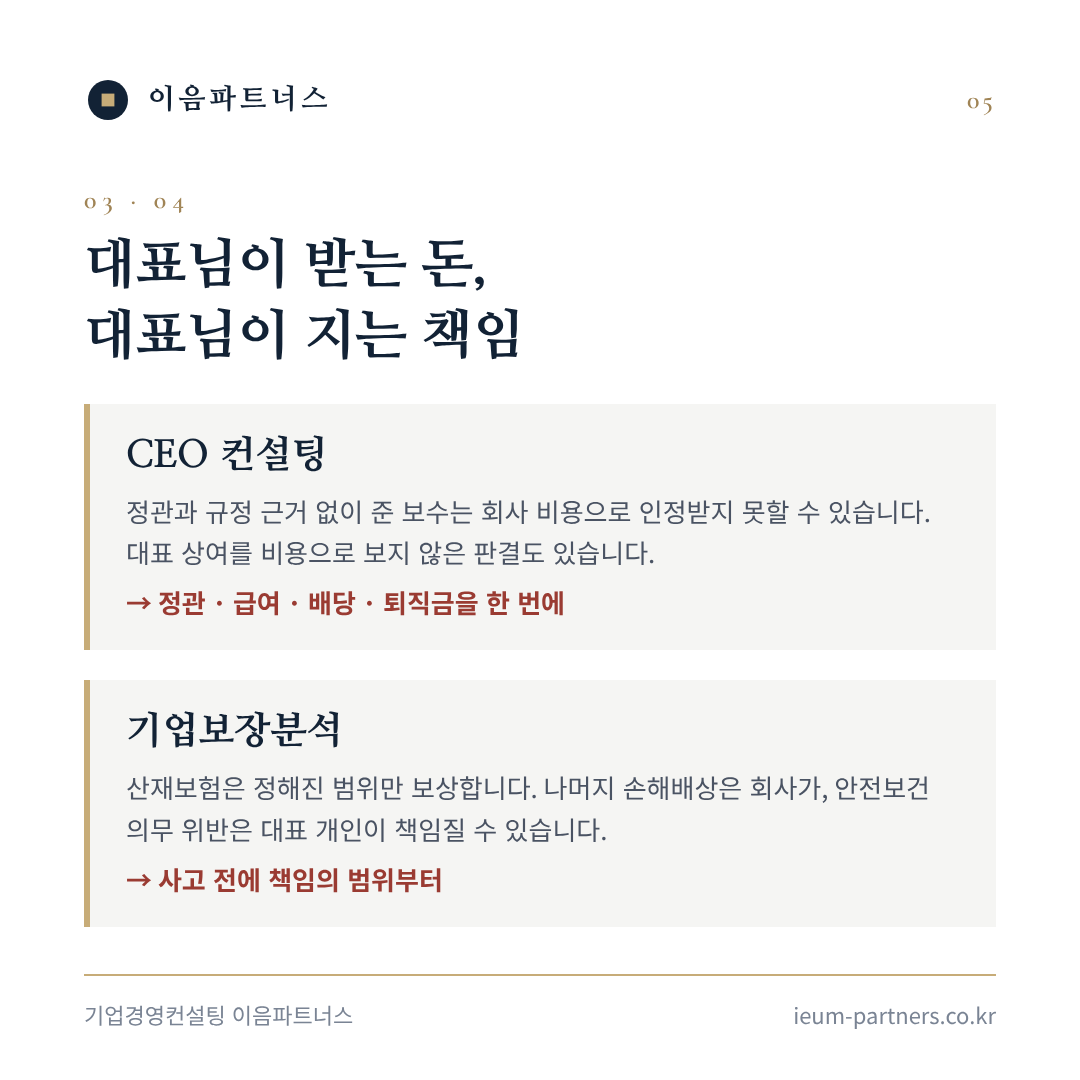
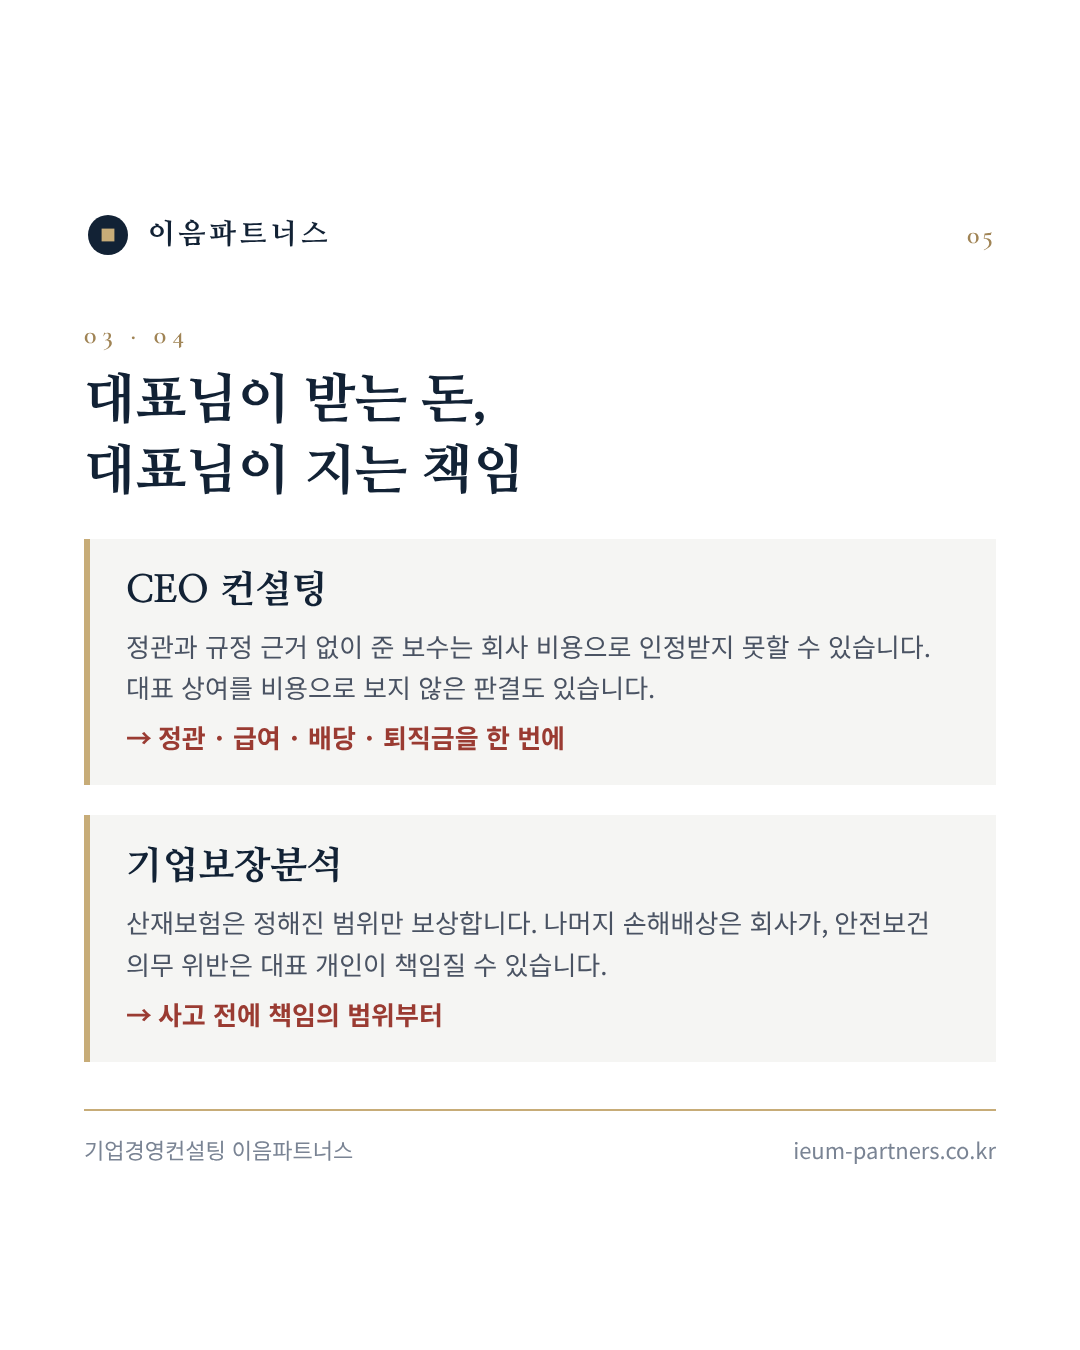
카드뉴스 그림을 4:5(1080x1350)로 바꾸고 보기 창 비율 맞춤

diff --git a/index.html b/index.html
@@ -117,7 +117,7 @@ a{color:inherit;text-decoration:none}
 .hm-sub{margin-top:16px;padding-top:14px;border-top:1px solid #C7AC78;font-size:14px;letter-spacing:.5px;color:#4A5363}
 /* sections */
 section{scroll-margin-top:112px}
-.cns{background:#F5F5F3}.cn-grid{margin-top:40px;display:grid;grid-template-columns:repeat(3,1fr);gap:24px}.cn-open{all:unset;cursor:pointer;display:flex;flex-direction:column;background:#fff;transition:transform .2s,box-shadow .2s}.cn-open:hover{transform:translateY(-3px);box-shadow:0 10px 24px rgba(18,34,53,.12)}.cn-open img{width:100%;aspect-ratio:1/1;display:block}.cn-cat{padding:18px 20px 0;font-size:12px;font-weight:700;color:#7A6236}.cn-t{padding:6px 20px 0;font-size:17px;font-weight:700;color:#122235;line-height:1.5}.cn-d{padding:8px 20px 20px;font-size:12px;letter-spacing:2px;color:#8A93A0}.cn-pop{display:none;position:fixed;inset:0;z-index:50;background:#0A101A;flex-direction:column;justify-content:center;padding:24px}.cn.on .cn-pop{display:flex}.cn-bar{max-width:640px;width:100%;margin:0 auto;display:flex;justify-content:space-between;align-items:center;color:#fff;font-size:15px;padding-bottom:14px}.cn-bar button{all:unset;cursor:pointer;font-size:22px;color:#fff;padding:4px 8px}.cn-track{max-width:640px;width:100%;margin:0 auto;display:flex;overflow-x:auto;scroll-snap-type:x mandatory;gap:12px;scrollbar-width:none}.cn-track::-webkit-scrollbar{display:none}.cn-track img{flex:0 0 100%;width:100%;aspect-ratio:1/1;scroll-snap-align:center}.cn-foot{max-width:640px;width:100%;margin:16px auto 0;display:flex;justify-content:space-between;font-size:13px;color:#C9CDD4}.cn-foot{align-items:center}.cn-foot a{color:#E5CF9F;text-decoration:none}.cn-nav{display:flex;gap:8px}.cn-nav button{all:unset;cursor:pointer;width:40px;height:40px;border:1px solid #4A5363;color:#fff;display:flex;align-items:center;justify-content:center;font-size:16px}.cn-nav button:hover{border-color:#C7AC78;color:#C7AC78}@media (max-width:900px){.cn-grid{grid-template-columns:1fr 1fr;gap:12px}.cn-t{font-size:14px;padding:6px 14px 0}.cn-cat{padding:14px 14px 0}.cn-d{padding:6px 14px 14px}}
+.cns{background:#F5F5F3}.cn-grid{margin-top:40px;display:grid;grid-template-columns:repeat(3,1fr);gap:24px}.cn-open{all:unset;cursor:pointer;display:flex;flex-direction:column;background:#fff;transition:transform .2s,box-shadow .2s}.cn-open:hover{transform:translateY(-3px);box-shadow:0 10px 24px rgba(18,34,53,.12)}.cn-open img{width:100%;aspect-ratio:1/1;object-fit:cover;display:block}.cn-cat{padding:18px 20px 0;font-size:12px;font-weight:700;color:#7A6236}.cn-t{padding:6px 20px 0;font-size:17px;font-weight:700;color:#122235;line-height:1.5}.cn-d{padding:8px 20px 20px;font-size:12px;letter-spacing:2px;color:#8A93A0}.cn-pop{display:none;position:fixed;inset:0;z-index:50;background:#0A101A;flex-direction:column;justify-content:center;padding:24px}.cn.on .cn-pop{display:flex}.cn-bar{max-width:640px;width:100%;margin:0 auto;display:flex;justify-content:space-between;align-items:center;color:#fff;font-size:15px;padding-bottom:14px}.cn-bar button{all:unset;cursor:pointer;font-size:22px;color:#fff;padding:4px 8px}.cn-track{max-width:min(640px,calc((100vh - 190px)*0.8));width:100%;margin:0 auto;display:flex;overflow-x:auto;scroll-snap-type:x mandatory;gap:12px;scrollbar-width:none}.cn-track::-webkit-scrollbar{display:none}.cn-track img{flex:0 0 100%;width:100%;aspect-ratio:4/5;object-fit:contain;scroll-snap-align:center}.cn-foot{max-width:640px;width:100%;margin:16px auto 0;display:flex;justify-content:space-between;font-size:13px;color:#C9CDD4}.cn-foot{align-items:center}.cn-foot a{color:#E5CF9F;text-decoration:none}.cn-nav{display:flex;gap:8px}.cn-nav button{all:unset;cursor:pointer;width:40px;height:40px;border:1px solid #4A5363;color:#fff;display:flex;align-items:center;justify-content:center;font-size:16px}.cn-nav button:hover{border-color:#C7AC78;color:#C7AC78}@media (max-width:900px){.cn-grid{grid-template-columns:1fr 1fr;gap:12px}.cn-t{font-size:14px;padding:6px 14px 0}.cn-cat{padding:14px 14px 0}.cn-d{padding:6px 14px 14px}}
 
 .chs .ch-lead{margin-top:14px}.chg-grid{margin-top:44px;display:grid;grid-template-columns:repeat(5,1fr);gap:16px}.chc{background:#F5F5F3;border-top:3px solid #C7AC78;padding:28px 22px 24px;display:flex;flex-direction:column;gap:6px;color:#122235;text-decoration:none;transition:background .2s,color .2s}a.chc:hover{background:#122235;color:#fff}a.chc:hover .chd{color:#C9CDD4}.chi{color:#122235;margin-bottom:10px}a.chc:hover .chi{color:#C7AC78}.chn{font-weight:700;font-size:17px}.che{font-size:11px;letter-spacing:3px;color:#7A6236}.chd{font-size:13.5px;line-height:1.65;color:#4A5363;margin-top:8px;flex:1}.chg{margin-top:16px;font-size:13px;font-weight:700;color:#7A6236}.chc.off{opacity:.62}.chc.off .chg{color:#8A93A0;font-weight:500}@media (max-width:900px){.chg-grid{grid-template-columns:1fr 1fr;gap:12px}.chc{padding:22px 18px}.chc:last-child{grid-column:1/-1}}
 
